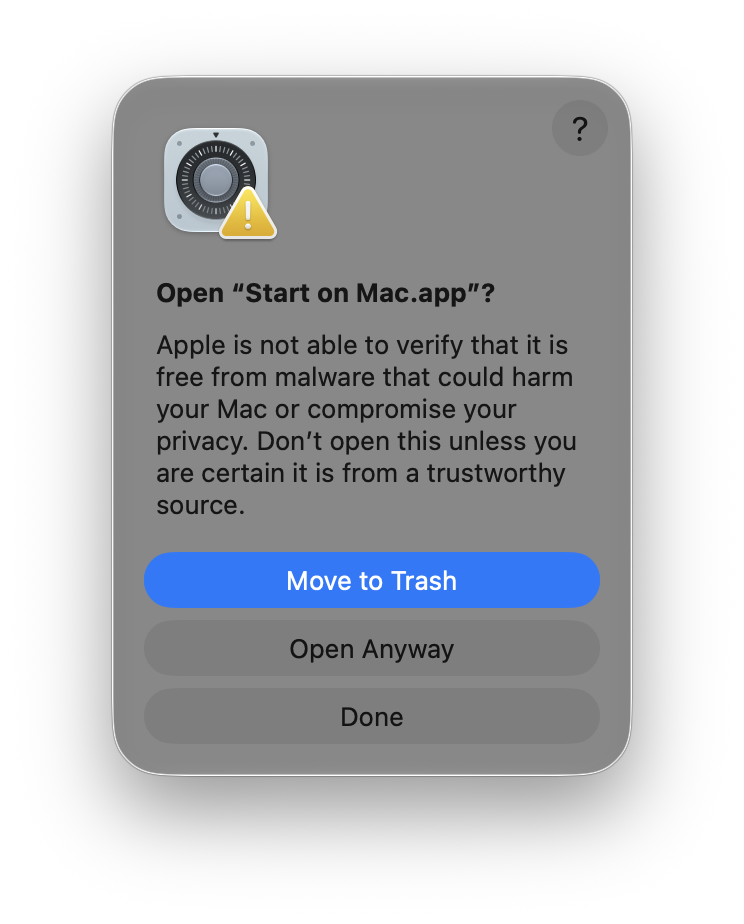
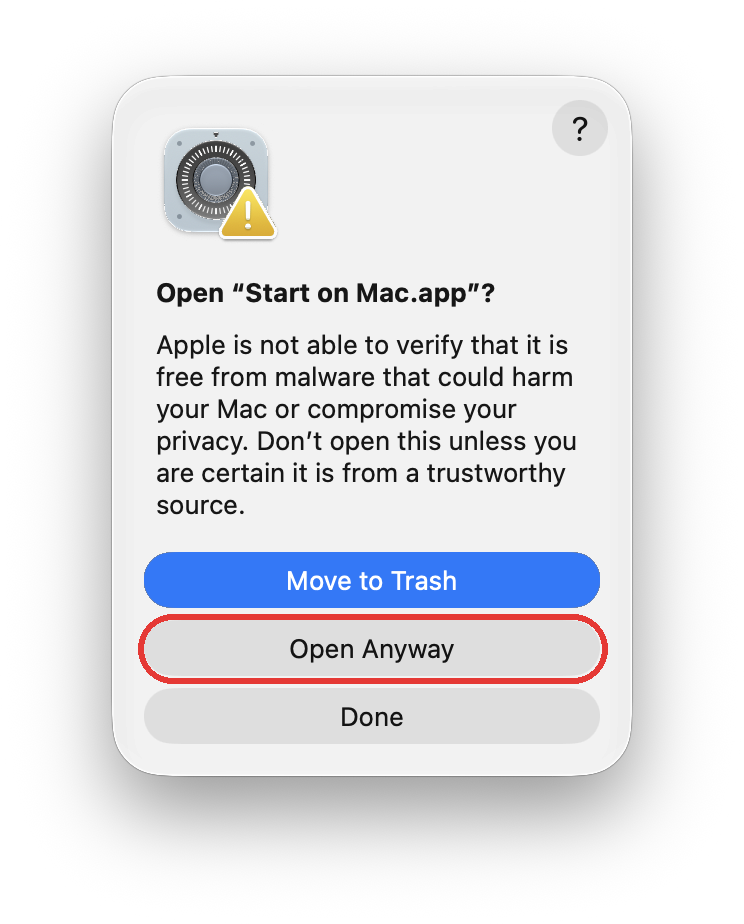
Mac install guide: mark Open Anyway in both pictures, light dialog, one sentence less

diff --git a/docs/install-mac.md b/docs/install-mac.md
@@ -26,9 +26,6 @@ Ollama is the free program that runs the AI model on your computer.
 
    <img src="screenshots/mac-drag-to-applications.svg" width="560" alt="In Finder, the folder virtual-standardized-patient-main is dragged from Downloads onto Applications in the sidebar">
 
-The simulator must be in Applications. macOS protects the Desktop, Documents and Downloads
-folders, and the simulator does not ask for permission to use them.
-
 ## 3. Start the simulator
 
 1. Open **Applications**, then the folder `virtual-standardized-patient-main`.
